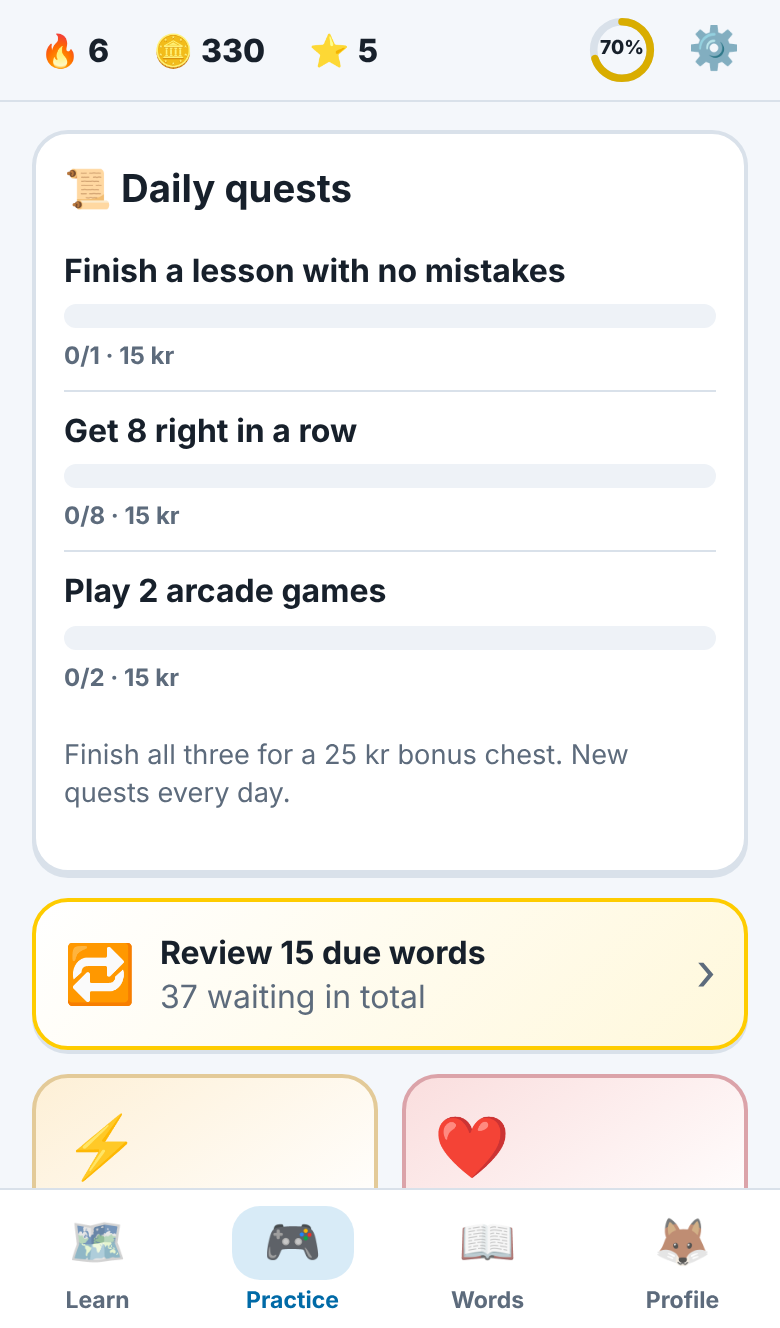
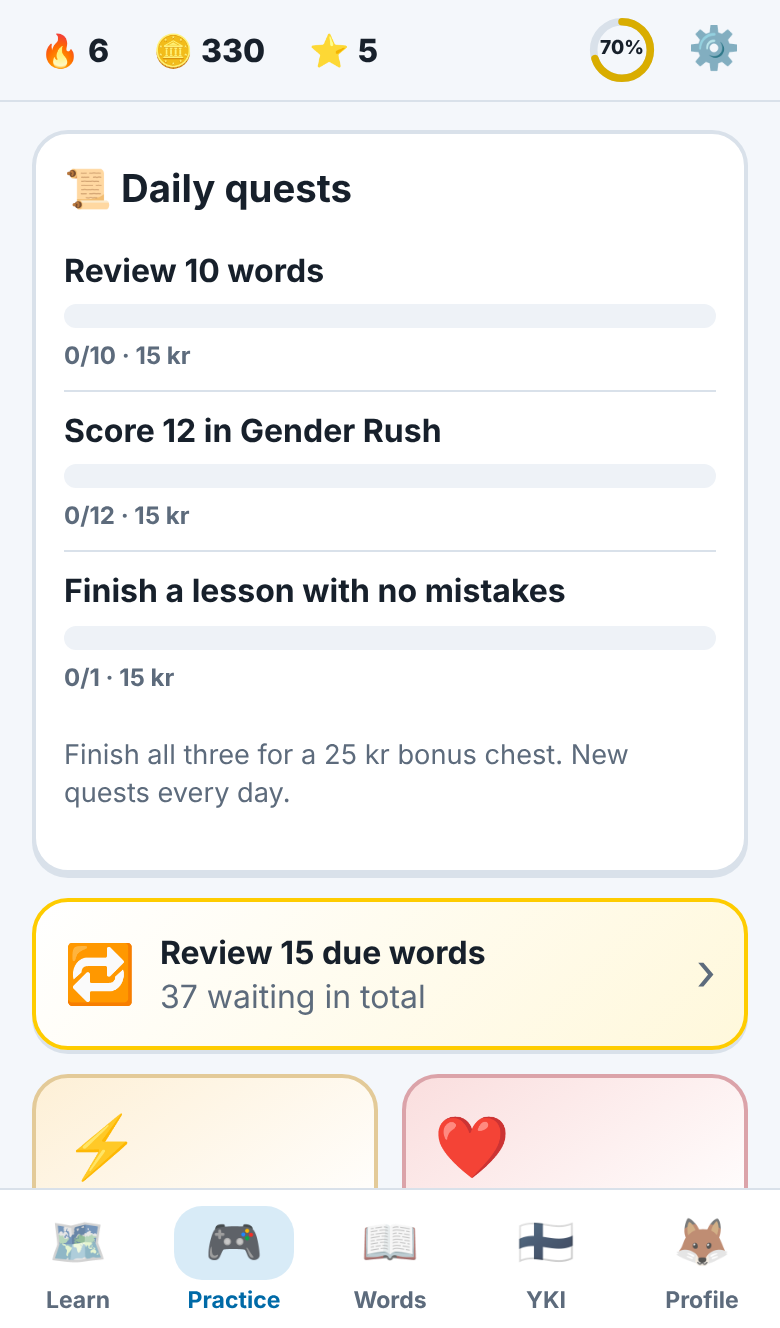
YKI: italic Swedish starters, group headings, offline caching, README
- Render *…* starters in speaking structure and tips as italics
- Group reading and listening items by kind (notices, emails, ads,
  articles, forum posts; conversations, voicemails, announcements, radio)
- Precache data/yki/*.json in the service worker (sq-v12)
- README: YKI section with screenshots and official sources

Claude-Session: https://claude.ai/code/session_01HuCfjRZzD8vZGNG5YWQMYB

diff --git a/js/yki.js b/js/yki.js
@@ -19,6 +19,15 @@ const TYPE_LABEL = {
   informal: ['Informal message', 'Informellt meddelande', 'To a friend, neighbour or hobby group.'],
   formal: ['Formal message', 'Formellt meddelande', 'To a landlord, employer, shop or authority.'],
   opinion: ['Opinion text', 'Åsiktstext', 'Give and justify your opinion.'],
+  notice: ['Notices', 'Meddelanden', 'Notes on the board, signs and short information.'],
+  email: ['Emails and letters', 'E-post och brev', 'Messages from people and services.'],
+  ad: ['Ads', 'Annonser', 'Job ads, courses, flats and things for sale.'],
+  article: ['Articles', 'Artiklar', 'Short news and magazine texts.'],
+  forum: ['Forum posts', 'Diskussioner', 'Opinions and questions online.'],
+  dialogue: ['Conversations', 'Samtal', 'Two people talking.'],
+  voicemail: ['Voicemails', 'Röstmeddelanden', 'Messages left on your phone.'],
+  announcement: ['Announcements', 'Utrop', 'At the station, in the shop, at events.'],
+  radio: ['Radio', 'Radio', 'Short news and radio programmes.'],
 };
 const SOURCES = [
   ['Migri: language skills for citizenship', 'https://migri.fi/en/language-skills'],
@@ -37,6 +46,8 @@ export const loadPart = (id) =>
     .catch(() => []));
 const rec = (part) => (S.yki[part] ||= {});
 const doneCount = (part, list) => list.filter((t) => rec(part)[t.id]?.done).length;
+// Content marks Swedish starters as *…*: show them in italics.
+const rich = (s) => String(s).split(/\*([^*]+)\*/).map((x, i) => (i % 2 ? h('i', x) : x));
 const wordCount = (s) => (String(s).trim().match(/\S+/g) || []).length;
 const fmt = (s) => `${Math.floor(s / 60)}:${String(Math.max(0, Math.round(s % 60))).padStart(2, '0')}`;
 
@@ -387,8 +398,8 @@ function speakingTask(body, t, api) {
       [
         '🧭 How to answer',
         () => [
-          h('section.card', h('h3', 'Structure'), h('ol.y-steps', (t.structure || []).map((s) => h('li', s)))),
-          h('section.card', h('h3', 'Tips'), h('ul', (t.tips || []).map((s) => h('li', s)))),
+          h('section.card', h('h3', 'Structure'), h('ol.y-steps', (t.structure || []).map((s) => h('li', ...rich(s))))),
+          h('section.card', h('h3', 'Tips'), h('ul', (t.tips || []).map((s) => h('li', ...rich(s))))),
           h('section.card', h('h3', 'Useful phrases'), h('p.muted.small', 'Tap to hear.'), phraseList(t.phrases)),
         ],
       ],
@@ -457,7 +468,7 @@ function situationTask(body, t, api) {
   };
   const done = () => {
     mount(actions, h('button.btn.ghost.wide', { type: 'button', onclick: restart }, '↺ Practise again'), h('button.btn.ghost.wide', { type: 'button', onclick: () => chat.querySelectorAll('.y-en').forEach((e) => (e.hidden = !e.hidden)) }, 'Show / hide English'));
-    mount(after, h('section.card', h('h3', 'Useful phrases'), phraseList(t.phrases)), h('section.card', h('h3', 'Tips'), h('ul', (t.tips || []).map((s) => h('li', s)))), ratingRow((r) => award('speaking', t.id, 10, { rating: r })));
+    mount(after, h('section.card', h('h3', 'Useful phrases'), phraseList(t.phrases)), h('section.card', h('h3', 'Tips'), h('ul', (t.tips || []).map((s) => h('li', ...rich(s))))), ratingRow((r) => award('speaking', t.id, 10, { rating: r })));
   };
   const restart = () => {
     i = -1;

diff --git a/css/style.css b/css/style.css
@@ -724,6 +724,7 @@ textarea.code { font-family: ui-monospace, Menlo, monospace; font-size: 0.75rem;
 .y-say { display: flex; gap: 8px; margin-top: 8px; }
 .y-tabs { display: flex; gap: 6px; flex-wrap: wrap; margin: 4px 0 10px; }
 .y-tabs .chip { padding: 8px 12px; font-size: 0.85rem; cursor: pointer; }
+.y-screen .card > h3:first-child { margin-top: 0; }
 .y-timer { display: flex; flex-direction: column; align-items: center; gap: 8px; text-align: center; }
 .y-clock { font-size: 3rem; font-weight: 900; font-variant-numeric: tabular-nums; color: var(--muted); }
 .y-clock.prep { color: var(--brand-2); }

diff --git a/sw.js b/sw.js
@@ -1,6 +1,6 @@
 // Service worker: makes the app work offline and load instantly.
 // Bump VERSION whenever app files change so phones pick up the new version.
-const VERSION = 'sq-v11';
+const VERSION = 'sq-v12';
 const SHELL = [
   './',
   'index.html',
@@ -22,6 +22,10 @@ const SHELL = [
   'js/yki.js',
   'data/units.json',
   'data/vocab.json',
+  'data/yki/speaking.json',
+  'data/yki/writing.json',
+  'data/yki/reading.json',
+  'data/yki/listening.json',
   'manifest.webmanifest',
   'icons/icon-192.png',
   'icons/icon-512.png',

diff --git a/README.md b/README.md
@@ -16,6 +16,7 @@
 - **Listen three ways**: your phone's Swedish voice 🔊, the same voice slowed down 🐢, and **real native speakers** 🎙 when a recording exists
 - **Spaced repetition** brings each word back right before you'd forget it
 - Works **offline**: download everything, recordings included, with one tap before a flight ✈
+- **🇫🇮 YKI practice** for the Finnish citizenship language test in Swedish: speaking, writing, reading and listening tasks with timers, model answers and phrases
 
 ---
 
@@ -82,6 +83,29 @@ The **Practice** tab has **3 daily quests** (15 kr each, plus a 25 kr bonus for 
 
 ### Words 📖
 The **Words** tab is a dictionary of everything in the course. Search in Swedish or English, filter by *new / learning / mastered* or by unit, and tap any word to see its card. It also has the **🔊 Sound guide**, a short tour of how Swedish sounds: long and short vowels, the sj- and tj-sounds, silent letters, and the two pitch accents.
+
+---
+
+## 🇫🇮 YKI: the Finnish citizenship language test (in Swedish)
+
+To get Finnish citizenship you have to prove your Finnish or Swedish. One common way is the **YKI test** (*Allmänna språkexamina*) in Swedish at the **intermediate level**: you need **grade 3** (about **B1**) in a pair of its parts, for example **speaking + writing**, **listening + writing**, or **reading + speaking**. The **🇫🇮 YKI** tab has practice for all four parts:
+
+<p align="center">
+  <img src="docs/screenshots/8-yki.png" width="200" alt="The YKI tab with the four parts of the test">
+  <img src="docs/screenshots/9-yki-speaking.png" width="200" alt="A speaking task with a structure to follow">
+  <img src="docs/screenshots/10-yki-writing.png" width="200" alt="A writing task with a word counter">
+</p>
+
+| Part | What you practise |
+|---|---|
+| 🎤 **Speaking** (24 tasks) | **Accounts** (tell about your home, work, a trip…), **situations** where someone on the "recording" talks to you and you answer in time (booking at the hälsostation, calling the disponent…), and **short presentations** where you give your view. Each has the test's preparation and speaking time, a structure to follow, useful phrases, and a model answer to listen to. You can **record yourself** and play it back. |
+| ✍ **Writing** (18 tasks) | **Informal** messages, **formal** messages (to a landlord, employer or authority) and **opinion** texts. Write with a word counter and an optional timer (å ä ö keys included), then compare with a model text and tick a checklist. Your draft is saved. |
+| 📖 **Reading** (10 texts) | Notices, emails, ads, articles and forum posts with multiple-choice and true/false questions, explanations, a glossary and an English translation. |
+| 🎧 **Listening** (10 recordings) | Conversations, voicemails, announcements and radio clips. Like the test, you can **listen twice** before answering; then the transcript appears. |
+
+Everything is set in **Finland**: euros, FPA, kommunen, Migri, HRT, Helsingfors, Åbo, Vasa… The tips and instructions are in English; the tasks are in Swedish, each with an English translation.
+
+> ⚠ This is practice material written for this app, **not official YKI material**, and the test format can change (subtest days are being piloted from autumn 2026, for example). Before you book, check the official pages: [Migri: language skills](https://migri.fi/en/language-skills), [OPH: proving your language skills](https://www.oph.fi/en/education-and-qualifications/demonstrating-your-language-proficiency-when-applying-finnish), and the [official sample tasks](https://ykitesti.solki.jyu.fi/en/tutustu-testiin/in-english/intermediate-level-speaking/). Your phone's Swedish voice usually speaks Sweden Swedish, and Finland Swedish sounds a little different, so also listen to [Svenska Yle](https://svenska.yle.fi) now and then.
 
 ---
 
@@ -211,6 +235,7 @@ sw.js                   offline service worker (bump VERSION after changing app 
 data/units.json         the 35 units, their bosses and scopes
 vocab/<unit>.json       the vocabulary, one file per unit (the source of truth)
 data/vocab.json         all units merged (generated by tools/build-vocab.mjs)
+data/yki/               YKI practice: speaking, writing, reading and listening tasks
 tools/                  validation, reference lookups, merging, screenshots
 tests/                  unit tests and phone-sized browser tests (Playwright)
 ```
@@ -220,9 +245,10 @@ tests/                  unit tests and phone-sized browser tests (Playwright)
 - `node tools/validate.mjs vocab/food.json` checks a unit against [the style guide](tools/VOCAB_STYLE.md) and compares every IPA with the references
 - `node tools/lookup.mjs hund katt` shows the reference pronunciations and frequency of words
 - `node tools/build-vocab.mjs --report` merges all units into `data/vocab.json` and lists overlaps
+- `node tools/validate-yki.mjs data/yki/*.json` checks the YKI tasks against [their guide](tools/YKI_STYLE.md)
 - `node --test tests/*.test.mjs` runs the unit tests
 - `node tests/offline.mjs http://localhost:8080/` downloads recordings from a mocked Wikimedia, switches the browser to offline and checks that the app, the words and the recordings still work
-- `node tests/smoke.mjs http://localhost:8080/` plays a whole lesson and the arcade games in a phone-sized browser; `tests/navigation.mjs` checks the back buttons, the phone back gesture and the select-then-Check answers; `tests/sync.mjs` and `tests/native.mjs` test gist sync and native recordings against mocked APIs
+- `node tests/smoke.mjs http://localhost:8080/` plays a whole lesson and the arcade games in a phone-sized browser; `tests/navigation.mjs` checks the back buttons, the phone back gesture and the select-then-Check answers; `tests/yki.mjs` goes through every kind of YKI task; `tests/sync.mjs` and `tests/native.mjs` test gist sync and native recordings against mocked APIs
 - `node tools/screenshots.mjs` regenerates the screenshots in this README
 
 Word progress is stored per word id (`<word>.<part-of-speech>`), so you can edit translations, examples or pronunciations without anyone losing progress.
